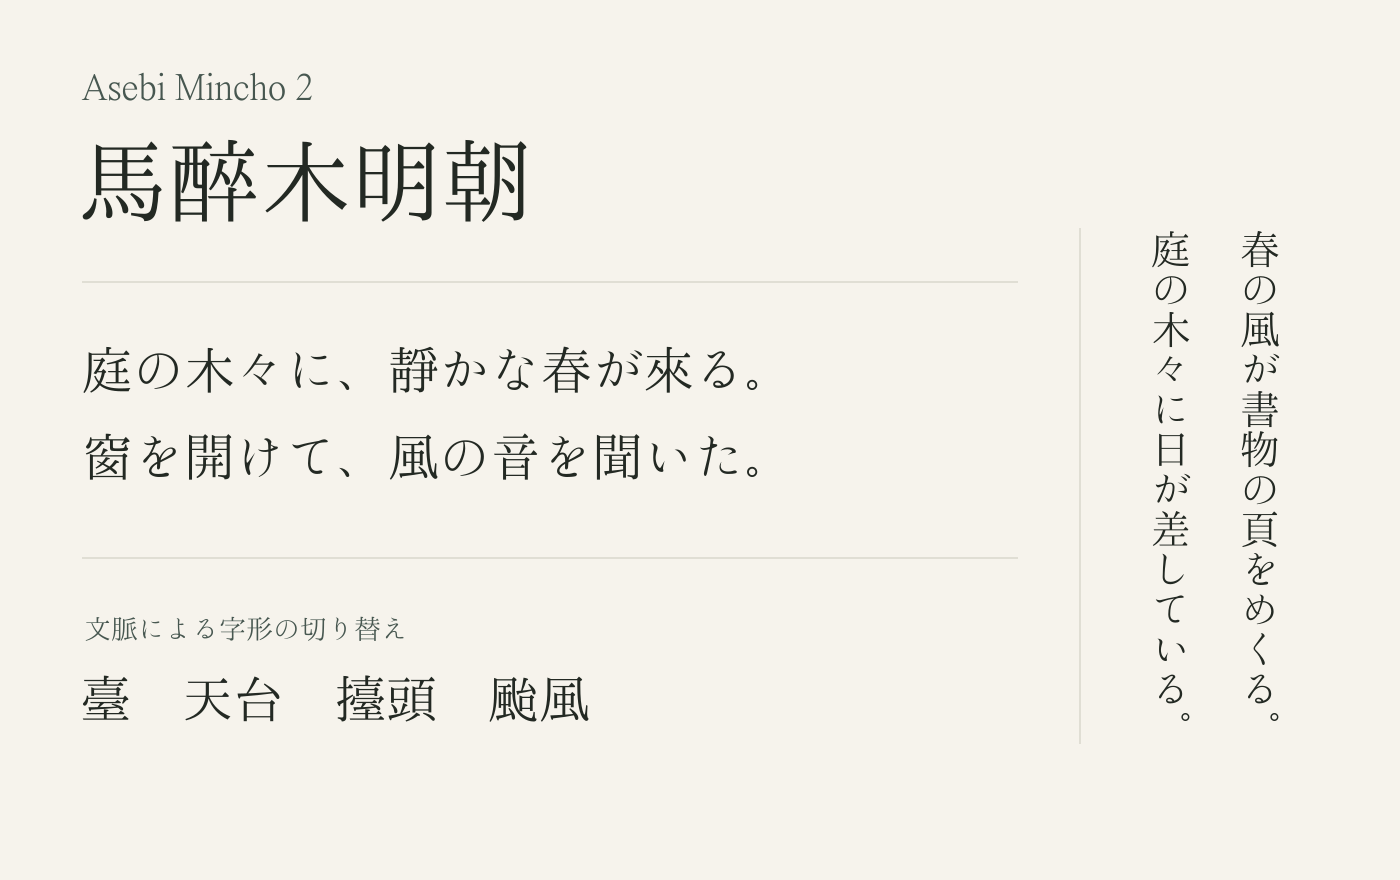
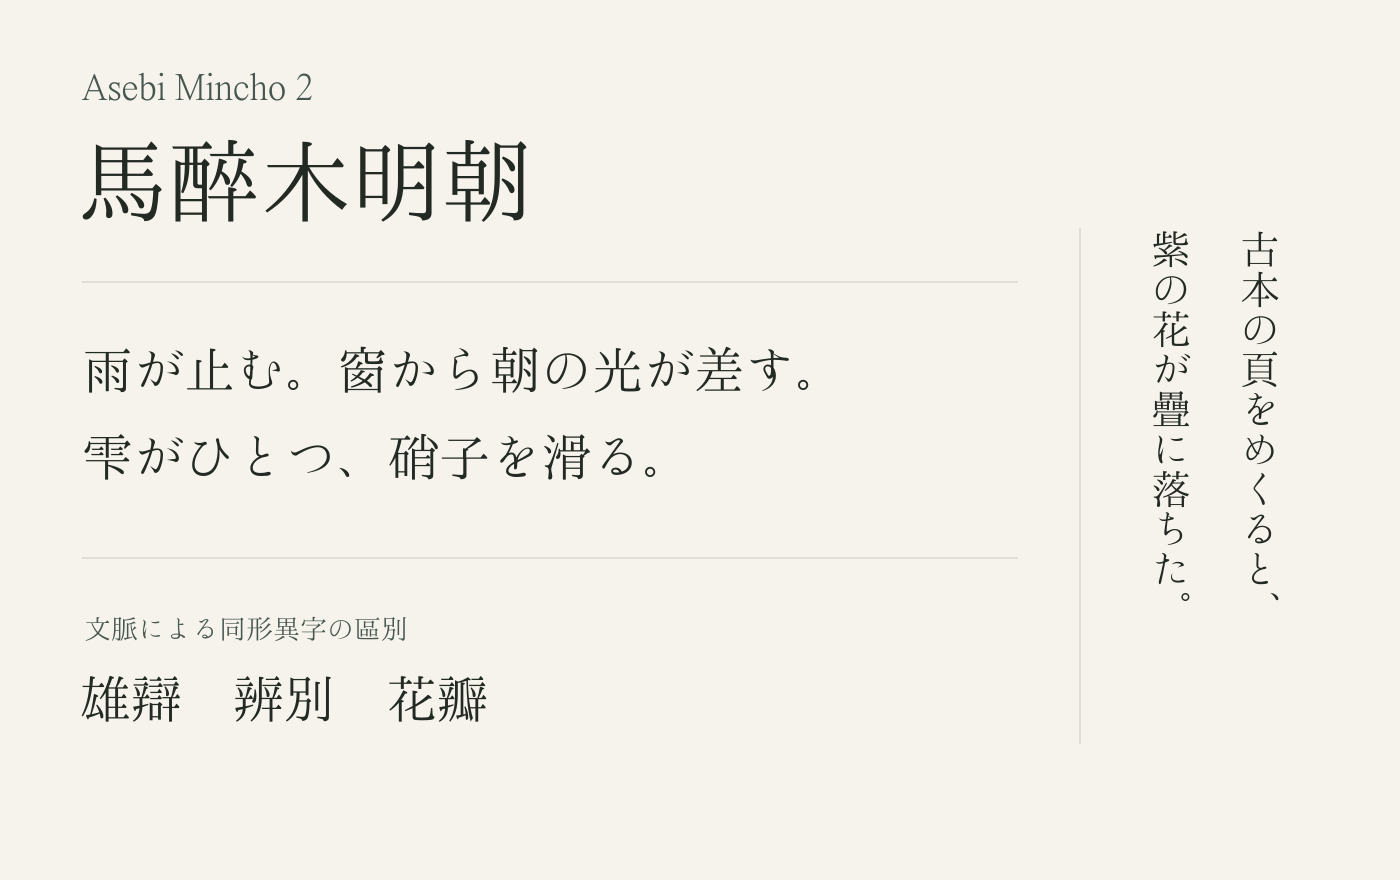
公開文書と書体見本の例を整える

diff --git a/README.md b/README.md
@@ -1,29 +1,33 @@
 # 馬酔木明朝 2 / Asebi Mincho 2
 
-馬酔木（あせび）明朝 2は、日本語の漢字を旧字形で表示する明朝体です。「学校の図書館」と入力すると、「學校の圖書館」の字形で表示します。漢字は一点明朝正字を基準とし、かな・約物・欧文は錦明朝を主体としています。
+馬酔木（あせび）明朝 2は、日本語の漢字を旧字形で表示する明朝体です。漢字は一点明朝正字を基準とし、かな・約物・欧文の主な素材は錦明朝です。
 
 [配布先の GitHub Releases](https://github.com/metasta/asebi-mincho/releases)
 
-![馬酔木明朝 2で、横組みの「庭の木々に、静かな春が来る。」と縦組みの短文を表示した書体見本](asebi-specimen.png)
+![馬酔木明朝 2の書体見本。横組みは雨の後の窓、縦組みは古本から落ちる花。文脈による字形の例は雄辯・辨別・花瓣。](asebi-specimen.png)
 
 ## 収録範囲
 
-漢字11,810字を収録します。対象はJIS X 0213の第1〜第4水準、Unicodeの互換漢字2ブロック、青空文庫でUnicode符号位置が明記された外字です。重複は1字として数えています。配布ZIPの `収録漢字.txt` で確認できます。ア行エ「𛀀」とや行え「𛀁」も収録します。
+漢字11,810字を収録します。対象はJIS X 0213の第1〜第4水準、Unicodeの互換漢字2ブロック、青空文庫でUnicode符号位置が明記された外字です。複数の範囲に属する字は1字分です。配布ZIPの `収録漢字.txt` で確認できます。「𛀀」（ア行）と「𛀁」（ヤ行）も収録します。
 
-## 使い方
+## 利用方法
 
 配布ZIPを展開し、`AsebiMincho2-Light.otf` をインストールします。Wordなどのアプリでは「馬酔木明朝 2」または「Asebi Mincho 2」を選びます。ウェイトはLightです。旧版の馬酔木明朝と併用できます。
 
-文脈による字形の切り替えに対応する組版環境では、「台」は単独で「臺」、天台では「台」、台頭では「擡」、台風では「颱」の字形で表示されます。「台」の直後に異体字セレクタ U+E0100 を入力すると、「台」の字形を指定できます。文脈による切り替えは17字・137規則に対応します。コピーや検索には入力した文字コードが使われます。
+### 文脈による同形異字の区別
 
-新版は、旧版の「校」「文」にあった右払いの筆押さえを、字形基準に合わせて省きました。[一点明朝正字の字形選定基準](https://github.com/epistularum/kanji-restoration#正字-criteria)・[旧版のサイト](https://metasta.github.io/asebi/)
+「辯」「辨」「瓣」は、今の表記では同じ「弁」と書く別の漢字です。文脈による字形選択に対応する組版環境では、「雄弁」「弁別」「花弁」を、それぞれ「雄辯」「辨別」「花瓣」の字形で表示します。コピーや検索は、入力した文字コードに基づきます。「弁」の直後に異体字セレクタ U+E0100 を入力すると、「弁」の字形を指定できます。
+
+### 旧版からの字形の変更
+
+旧版の「校」「文」では、右下へ伸びる画の起筆に小さな跳ねがありました。新版では字形基準に従って、この跳ねを省きました。 [一点明朝正字の字形選定基準](https://github.com/epistularum/kanji-restoration#正字-criteria)・[旧版のサイト](https://metasta.github.io/asebi/)
 
 ### 縦組みでの三点リーダ
 
-Mac版Wordなどでは、横組み用の字形を回転して使うため、縦組みの三点リーダ `…`（U+2026）が行の中央より左に見えることがあります。中央に揃えるには、縦組み用の互換文字 `︙`（U+FE19）を使います。2字続ける場合は `︙︙` と入力します。 [Unicodeの縦組み三点リーダの説明](https://www.unicode.org/versions/Unicode17.0.0/core-spec/chapter-6/)
+Mac版Wordなどでは、横組み用の字形が回転し、縦組みの三点リーダ `…`（U+2026）が行の中央より左に寄る場合があります。中央に配置するには、縦組み用の互換文字 `︙`（U+FE19）を入力します。2字続ける場合は `︙︙` と入力します。 [Unicodeの縦組み三点リーダの説明](https://www.unicode.org/versions/Unicode17.0.0/core-spec/chapter-6/)
 
 ## 使用許諾と素材
 
-馬酔木明朝 2は、IPAフォントライセンスv1.0に従って配布します。フォントの著作権表示、素材の詳細、再加工用のOpenTypeテーブル（TTX）と原版へ戻す手順は、配布ZIPに収めています。[ライセンス原文](IPA_Font_License_Agreement_v1.0.txt)
+馬酔木明朝 2は、IPAフォントライセンスv1.0に従って配布します。配布ZIPには、フォントの著作権表示、素材の詳細、再加工用のOpenTypeテーブル（TTX）、原版へ戻す手順が含まれます。 [ライセンス原文](IPA_Font_License_Agreement_v1.0.txt)
 
-漢字の基準と輪郭は一点明朝正字 v1.1、かな・約物・欧文の主な素材は錦明朝 1.111です。一部に三番明朝 1.001とIPAmj明朝 006.01を使用しています。派生版へのお問い合わせは、このリポジトリのIssuesへお願いします。[一点明朝正字](https://github.com/epistularum/kanji-restoration/releases/tag/v1.1)・[錦明朝](https://www.akenotsuki.com/eyeben/fonts/nishiki.html)・[三番明朝](https://www.akenotsuki.com/eyeben/fonts/sammin.html)・[IPAmj明朝](https://moji.or.jp/mojikiban/font/)
+漢字の基準と輪郭は一点明朝正字 v1.1、かな・約物・欧文の主な素材は錦明朝 1.111です。一部に三番明朝 1.001とIPAmj明朝 006.01も採用しました。派生版に関する質問は、このリポジトリのIssuesで受け付けます。 [一点明朝正字](https://github.com/epistularum/kanji-restoration/releases/tag/v1.1)・[錦明朝](https://www.akenotsuki.com/eyeben/fonts/nishiki.html)・[三番明朝](https://www.akenotsuki.com/eyeben/fonts/sammin.html)・[IPAmj明朝](https://moji.or.jp/mojikiban/font/)
